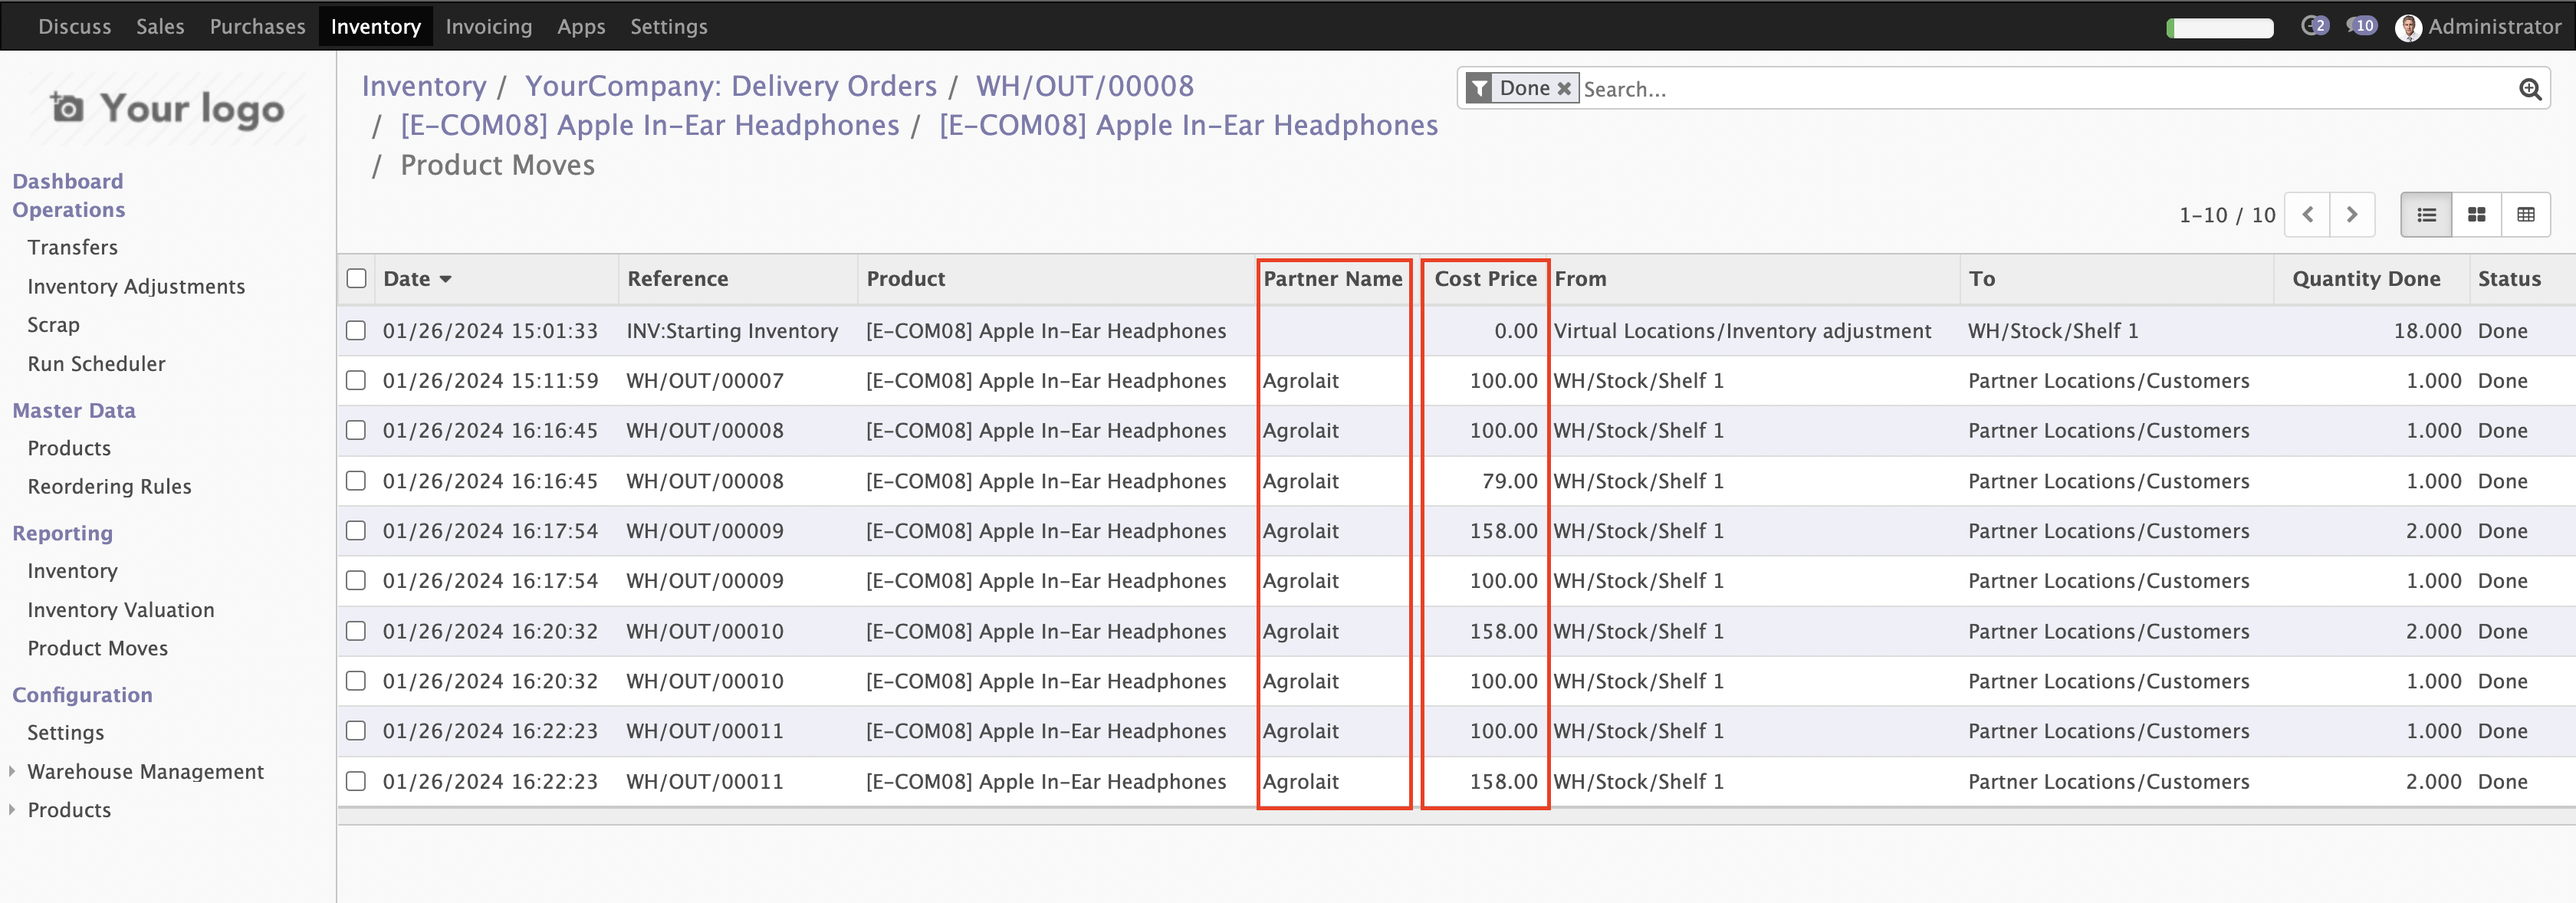
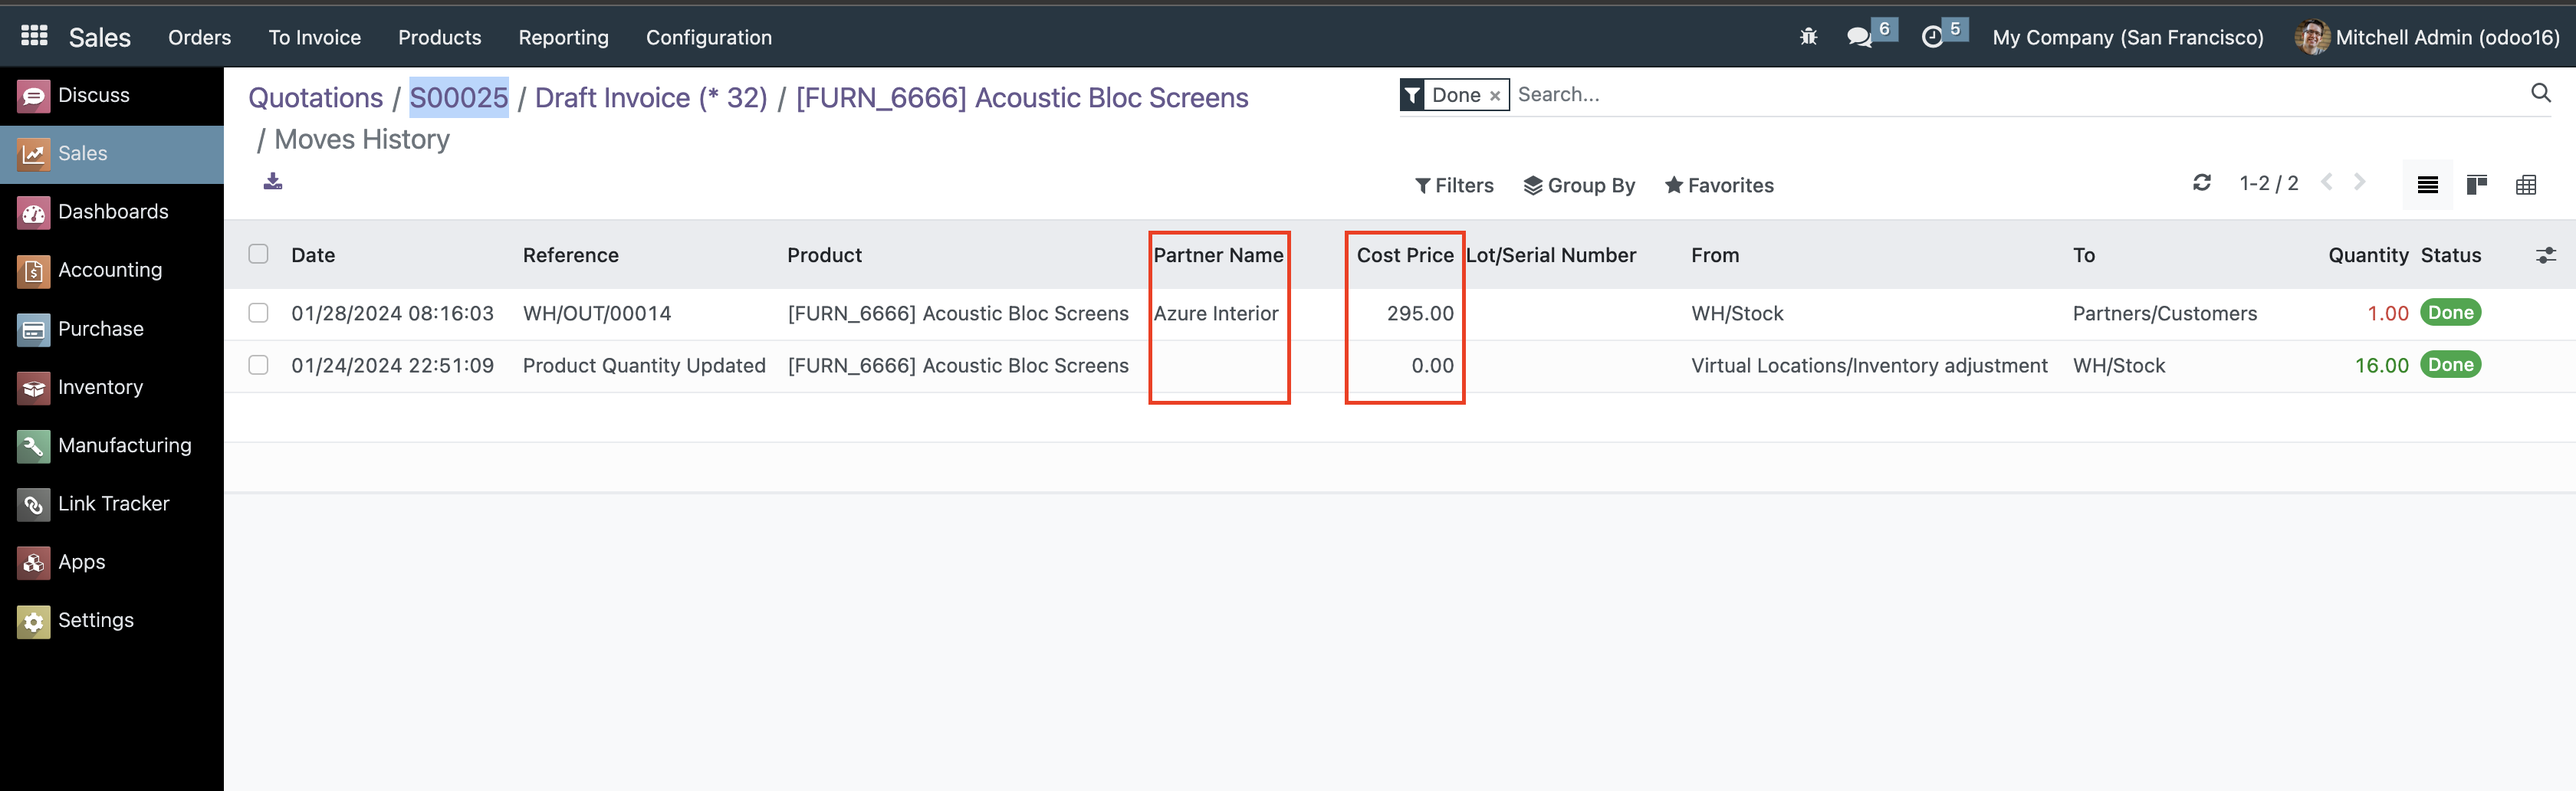
odoo17

diff --git a/custom_product/models/stock_move_line.py b/custom_product/models/stock_move_line.py
@@ -1,21 +1,22 @@
-
 from odoo import models, fields, api
-
 
 class StockMoveLine(models.Model):
     _inherit = 'stock.move.line'
 
-    partner_name = fields.Many2one('res.partner',string="Partner Name",related="move_id.picking_id.partner_id")
-    cost_price = fields.Monetary(compute="compute_cost_price",string="Cost Price",
-    currency_field="currency_id")
-    currency_id = fields.Many2one("res.currency",
-    string="Currency",related='move_id.company_id.currency_id',required=True)
+    partner_name = fields.Many2one(
+        comodel_name='res.partner', 
+        string="Partner Name", 
+        related="move_id.picking_id.partner_id", 
+        store=True, 
+        readonly=True)
+    cost_price = fields.Monetary(compute="_compute_cost_price", string="Cost Price", currency_field="currency_id")
+    currency_id = fields.Many2one("res.currency", string="Currency", related='move_id.company_id.currency_id', required=True)
 
-    @api.depends('qty_done', 'product_uom_id', 'product_id', 'move_id')
-    def compute_cost_price(self):
+    @api.depends('move_id.sale_line_id.price_unit', 'move_id.purchase_line_id.price_unit')
+    def _compute_cost_price(self):
         for rec in self:
             rec.cost_price = 0
             if rec.move_id.sale_line_id:
                 rec.cost_price = rec.move_id.sale_line_id.price_unit
-            if rec.move_id.purchase_line_id:
+            elif rec.move_id.purchase_line_id:
                 rec.cost_price = rec.move_id.purchase_line_id.price_unit

diff --git a/custom_product/__manifest__.py b/custom_product/__manifest__.py
@@ -1,16 +1,16 @@
 # -*- coding: utf-8 -*-
 {
     'name': "Custom Product move view Partner Name and Cost Unit",
-    'version': "11.0.0.0",
+    'version': "17.0.0.0",
     'category': "Product",
     'license': 'OPL-1',
     'price': '30.0',
     'currency': 'USD',
     'summary': """
-        View Product move tree view partner name and cost unit in odoo 11""",
+        View Product move tree view partner name and cost unit in odoo 12""",
 
     'description': """
-         View Product move tree view partner name and cost unit in odoo 11
+         View Product move tree view partner name and cost unit in odoo 12
          Unit price in view product move 
          Partner name in view product move
     """,
@@ -23,6 +23,7 @@
     # any module necessary for this one to work correctly
     'depends': ['base', 'stock'],
 
+    
     # always loaded
     'data': [
         # 'security/ir.model.access.csv',
